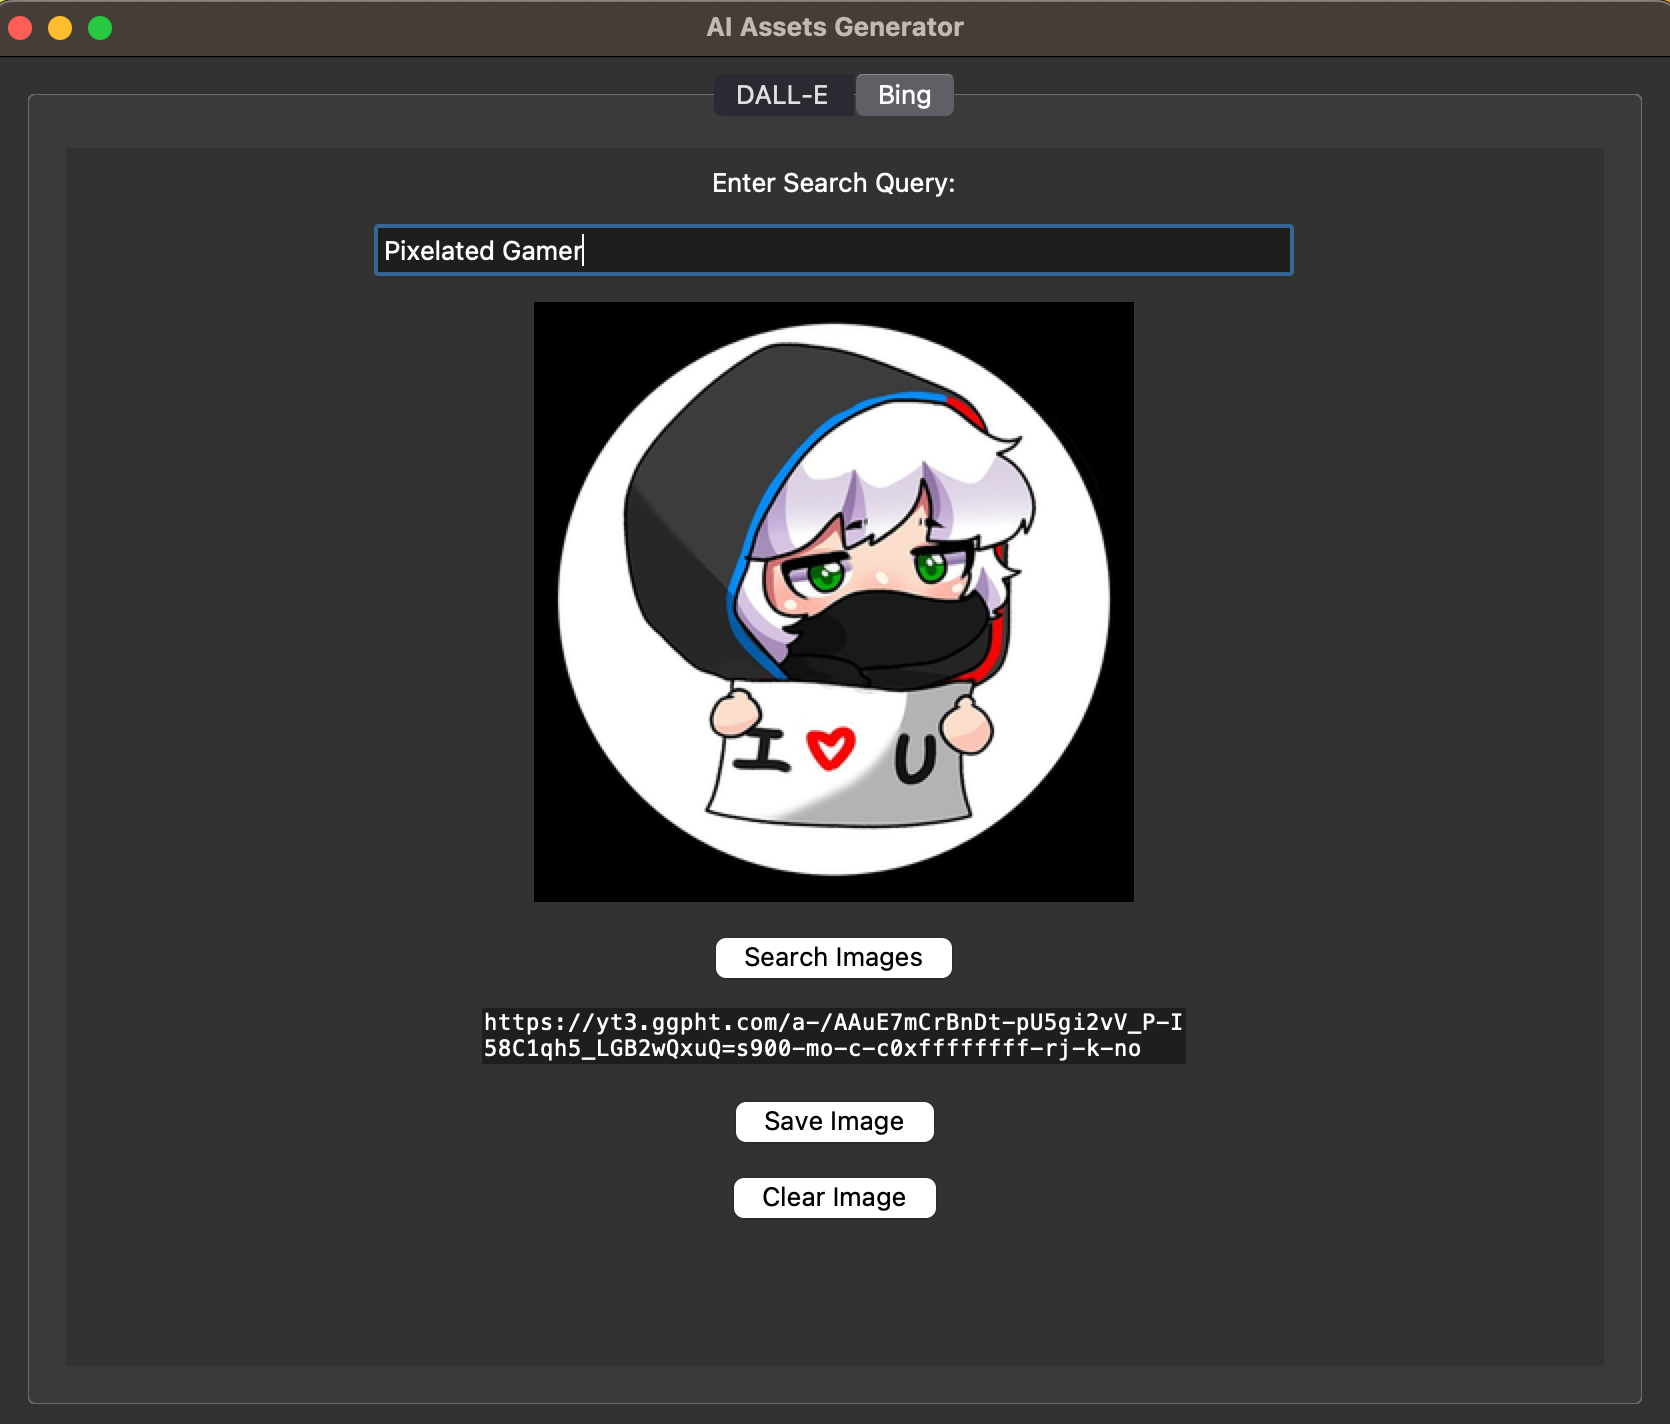
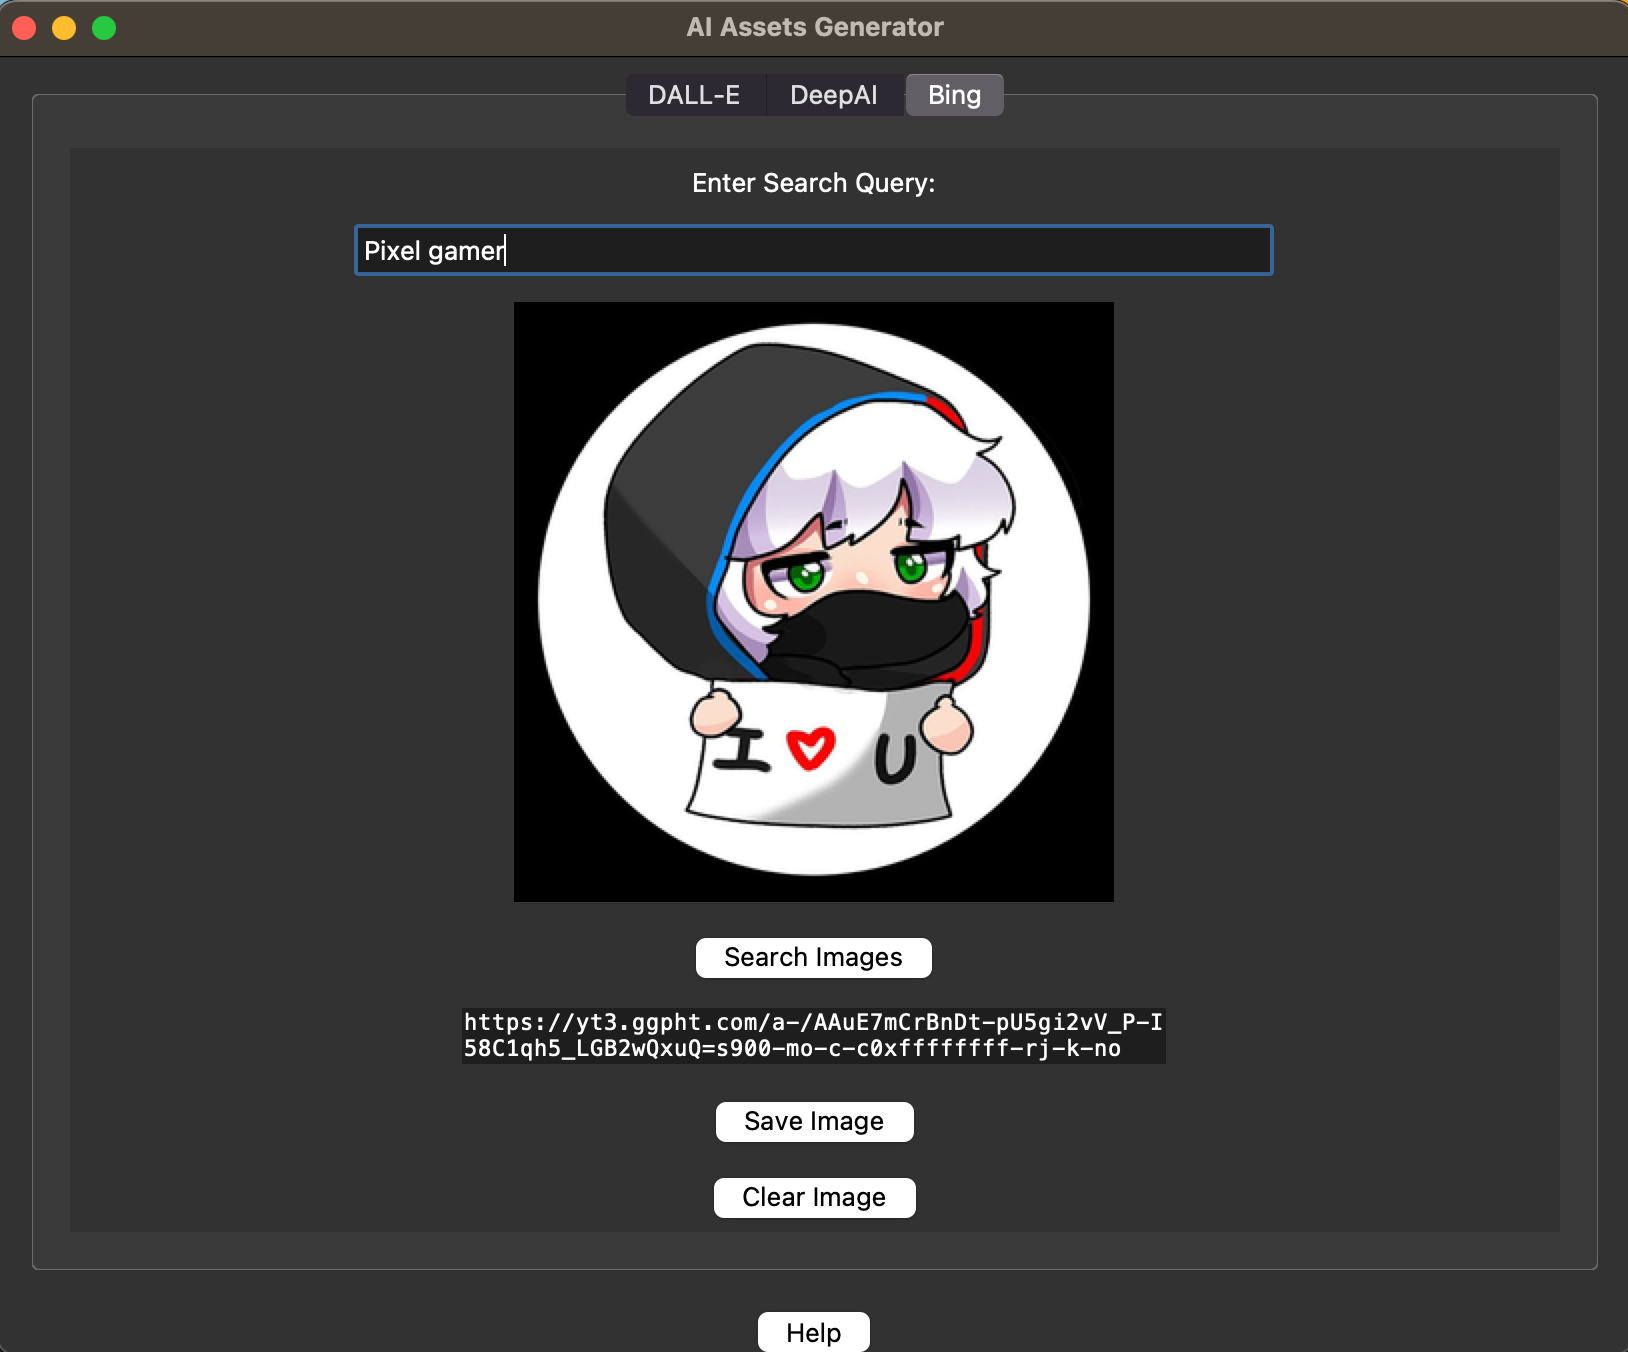
Added DeepAI section

diff --git a/AIAssetsGenerator.py b/AIAssetsGenerator.py
@@ -3,6 +3,7 @@ from tkinter import ttk
 import tkinter.filedialog as filedialog
 from Dalle import generate_openai_image, save_openai_image, clear_openai_image
 from BingSearch import search_bing_images, save_bing_image, clear_bing_images
+from DeepAI import generate_deepai_image, save_deepai_image, clear_deepai_image
 
 # Create the main window
 window = tk.Tk()
@@ -66,16 +67,74 @@ def create_bing_section(bing_frame):
     bing_clear_button = tk.Button(bing_left_frame, text="Clear Image", command=lambda: clear_bing_images(bing_query_text, bing_picture_box, bing_url_text))
     bing_clear_button.pack(side=tk.TOP, padx=5, pady=5)
 
-# Main method for the application.
+def create_deepai_section(deepai_frame):
+    deepai_left_frame = tk.Frame(deepai_frame)
+    deepai_left_frame.pack(side=tk.LEFT, fill=tk.BOTH, expand=True)
+
+    # Create a label and text box for the DeepAI Image prompt
+    deepai_prompt_label = tk.Label(deepai_left_frame, text="Enter Prompt:")
+    deepai_prompt_label.pack(side=tk.TOP, padx=5, pady=5)
+    deepai_prompt_text = tk.Entry(deepai_left_frame, width=50)
+    deepai_prompt_text.pack(side=tk.TOP, padx=5, pady=5)
+
+    # Create a picture box for the DeepAI Image
+    deepai_picture_box = tk.Label(deepai_left_frame)
+    deepai_picture_box.pack(side=tk.TOP, padx=5, pady=5)
+
+    # Create a text box for the DeepAI Image URL
+    deepai_url_text = tk.Text(deepai_left_frame, height=2, width=50)
+    deepai_url_text.pack(side=tk.TOP, padx=5, pady=5)
+
+    # Create a button to generate the DeepAI Image
+    deepai_generate_button = tk.Button(deepai_left_frame, text="Generate Image", command=lambda: generate_deepai_image(deepai_prompt_text.get(), deepai_picture_box, deepai_url_text))
+    deepai_generate_button.pack(side=tk.TOP, padx=5, pady=5)
+
+    deepai_save_button = tk.Button(deepai_left_frame, text="Save Image", command=lambda: save_deepai_image(deepai_url_text.get("1.0", "end").strip(), deepai_url_text))
+    deepai_save_button.pack(side=tk.TOP, padx=5, pady=5)
+
+    deepai_clear_button = tk.Button(deepai_left_frame, text="Clear Image", command=lambda: clear_deepai_image(deepai_prompt_text, deepai_picture_box, deepai_url_text))
+    deepai_clear_button.pack(side=tk.TOP, padx=5, pady=5)
+
+# This is method to show the help window.
+def show_help():
+    help_window = tk.Toplevel(window)
+    help_window.title("Help")
+    help_window.geometry("400x300")
+    
+    help_text = tk.Text(help_window, font=("Helvetica", 12))
+    help_text.pack()
+    
+    help_text.pack(side=tk.LEFT, fill=tk.BOTH, expand=True, padx=10, pady=10)
+    help_text.insert(tk.END, "Welcome to the AI Assets Generator!\n\n")
+    help_text.insert(tk.END, "This application allows you to generate images using the OpenAI DALL-E API, DeepAI, and Bing Search.\n\n")
+    help_text.insert(tk.END, "OpenAI DALL-E:\n")
+    help_text.insert(tk.END, "Enter a prompt for the image you want to generate and click 'Generate Image'. The generated image will appear in the picture box.\n\n")
+    help_text.insert(tk.END, "DeepAI:\n")
+    help_text.insert(tk.END, "Enter the desired parameters and click 'Generate Image'. The generated image will appear in the picture box.\n\n")
+    help_text.insert(tk.END, "Bing Search:\n")
+    help_text.insert(tk.END, "Enter a search query and click 'Search Images'. The search results will appear in the picture box. Click on a picture to select it, and click 'Save Image' to save the selected image.\n\n")
+
+    help_text.config(state=tk.DISABLED)
+
+    ok_button = tk.Button(help_window, text="OK", command=help_window.destroy)
+    ok_button.pack(pady=10)
+
 if __name__ == "__main__":
     
     openai_tab = ttk.Frame(tab_control)
     tab_control.add(openai_tab, text="DALL-E")
     create_openai_section(openai_tab)
 
+    deepai_tab = ttk.Frame(tab_control)
+    tab_control.add(deepai_tab, text="DeepAI")
+    create_deepai_section(deepai_tab)
+    
     bing_tab = ttk.Frame(tab_control)
     tab_control.add(bing_tab, text="Bing")
     create_bing_section(bing_tab)
+
+    help_button = tk.Button(window, text="Help", command=show_help)
+    help_button.pack()
 
     # Start the main event loop
     window.mainloop()

diff --git a/DeepAI.py b/DeepAI.py
@@ -1,0 +1,85 @@
+import os
+import sys
+from tkinter import filedialog, messagebox
+import traceback
+import requests
+import json
+import tkinter as tk
+
+# Set up API credentials for OpenAI
+deepmind_api_key = os.getenv("DEEPAI_API_KEY")
+
+# Check a string for emptyness and give error message if it is empty.
+def check_valid_prompt(prompt: str):
+    if not prompt:
+        messagebox.showerror(title="ERROR", message="Please enter a prompt to generate an image from.")
+        return False
+    else:
+        return True
+
+def generate_deepai_image(prompt, save_url, picture_box):
+    try:
+        # Check for empty prompt.
+        if not check_valid_prompt(prompt):
+            return
+        
+        url = "https://api.deepai.org/api/text2img"
+        data = {
+            'text': prompt,
+        }
+
+        headers = {'api-key': deepmind_api_key}
+        response = requests.post(url, data=data, headers=headers)
+
+        if response.status_code == 200:
+            result = json.loads(response.text)
+            image_url = result['output_url']
+            image_response = requests.get(image_url)
+            if image_response.status_code == 200:
+                with open(save_url, 'wb') as f:
+                    f.write(image_response.content)
+                picture_box.image = None
+                picture_box.configure(image=None)
+                picture_box.image = tk.PhotoImage(file=save_url)
+                picture_box.configure(image=picture_box.image)
+            else:
+                raise Exception(f"Error occurred in generate_deepai_image() Failed to fetch image URL")
+        else:
+            raise Exception(f"Error occurred in generate_deepai_image() at line API request failed")
+    except Exception as e:
+        tb = traceback.extract_tb(e.__traceback__)
+        file, line, func, text = tb[-1]
+        messagebox.showerror("ERROR",f"Exception in File {file} and method {func}() at line {line}: {e}")
+
+#Create a button to clear the OpenAI Image section
+def clear_deepai_image(openai_prompt_text, openai_picture_box, openai_url_text):
+    openai_prompt_text.delete(0, tk.END)
+    openai_picture_box.image = None
+    openai_picture_box.configure(image=tk.PhotoImage())
+    openai_url_text.delete('1.0', tk.END)
+
+
+def save_deepai_image(image_url, save_url_text):
+    try:
+        if image_url:
+            file_types = [
+                ('PNG Image', '*.png'),
+                ('JPG Image', '*.jpg'),
+                ('JPEG Image', '*.jpeg')
+            ]
+            file_name = filedialog.asksaveasfilename(defaultextension=".png", filetypes=file_types)
+            if file_name:
+                save_url_text.delete('1.0', tk.END)
+                save_url_text.insert('1.0', file_name)
+                response = requests.get(image_url)
+                if response.status_code == 200:
+                    with open(file_name, 'wb') as f:
+                        f.write(response.content)
+                else:
+                    raise Exception(f"Error occurred in save_deepai_image() at line {sys.exc_info()[2].tb_lineno}: Failed to fetch image URL")
+        else:
+            raise Exception(f"Error occurred in save_deepai_image() at line {sys.exc_info()[2].tb_lineno}: No image URL to save")
+    except Exception as e:
+        tb = traceback.extract_tb(e.__traceback__)
+        file, line, func, text = tb[-1]
+        messagebox.showerror("ERROR",f"Exception in File {file} and method {func}() at line {line}: {e}")

diff --git a/BingSearch.py b/BingSearch.py
@@ -1,4 +1,4 @@
-from tkinter import filedialog
+from tkinter import filedialog, messagebox
 import tkinter as tk
 import traceback
 import urllib.request
@@ -13,8 +13,19 @@ ssl_context = ssl.create_default_context()
 ssl_context.check_hostname = False
 ssl_context.verify_mode = ssl.CERT_NONE
 
+# Check a string for emptyness and give error message if it is empty.
+def check_valid_query(prompt: str):
+    if not prompt:
+        messagebox.showerror("ERROR", "Please enter a query to search an image from.")
+        return False
+    else:
+        return True
+
 def search_bing_images(query, bing_picture_box, bing_url_text):
     try:
+        # Check for empty prompt.
+        if not check_valid_query(query):
+            return
         # Download and display the search results
         image_urls = bing_image_urls(query, limit=1, adult_filter_off=True)
         image_url = image_urls[0]
@@ -35,7 +46,7 @@ def search_bing_images(query, bing_picture_box, bing_url_text):
     except Exception as e:
         tb = traceback.extract_tb(e.__traceback__)
         file, line, func, text = tb[-1]
-        print(f"Exception in File {file} and method {func}() at line {line}: {e}")
+        messagebox.showerror("ERROR",f"Exception in File {file} and method {func}() at line {line}: {e}")
 
 def save_bing_image(url):
     try:
@@ -53,7 +64,7 @@ def save_bing_image(url):
     except Exception as e:
         tb = traceback.extract_tb(e.__traceback__)
         file, line, func, text = tb[-1]
-        print(f"Exception in File {file} and method {func}() at line {line}: {e}")
+        messagebox.showerror("ERROR",f"Exception in File {file} and method {func}() at line {line}: {e}")
         
 def clear_bing_images(bing_query_text, bing_picture_box, bing_url_text):
     bing_query_text.delete(0, tk.END)

diff --git a/Dalle.py b/Dalle.py
@@ -21,9 +21,20 @@ ssl_context = ssl.create_default_context()
 ssl_context.check_hostname = False
 ssl_context.verify_mode = ssl.CERT_NONE
 
+# Check a string for emptyness and give error message if it is empty.
+def check_valid_prompt(prompt: str):
+    if not prompt:
+        messagebox.showerror(title="ERROR", message="Please enter a prompt to generate an image from.")
+        return False
+    else:
+        return True
 
 def generate_openai_image(prompt, openai_picture_box, openai_url_text):
     try:
+        # Check for empty prompt.
+        if not check_valid_prompt(prompt):
+            return
+        
         # Generate the image from OpenAI API
         response = openai.Image.create(
             prompt=prompt,
@@ -48,7 +59,7 @@ def generate_openai_image(prompt, openai_picture_box, openai_url_text):
     except Exception as e:
         tb = traceback.extract_tb(e.__traceback__)
         filename, line, func, text = tb[-1]
-        print(f"Exception in {func}() at line {line}: {e}")
+        messagebox.showerror("ERROR",f"Exception in {func}() at line {line}: {e}")
 
 def save_openai_image(url, openai_url_text):
     try:
@@ -72,7 +83,7 @@ def save_openai_image(url, openai_url_text):
     except Exception as e:
         tb = traceback.extract_tb(e.__traceback__)
         file, line, func, text = tb[-1]
-        print(f"Exception in File {file} and method {func}() at line {line}: {e}")
+        messagebox.showerror("ERROR",f"Exception in File {file} and method {func}() at line {line}: {e}")
             
 #Create a button to clear the OpenAI Image section
 def clear_openai_image(openai_prompt_text, openai_picture_box, openai_url_text):

diff --git a/README.md b/README.md
@@ -18,14 +18,15 @@ AI Assets Generator is a Python-based tool for generating artificial intelligenc
 
 ## Features
 
-* Generate OpenAI images with the provided prompt text
-* Save OpenAI-generated images
-* Clear OpenAI-generated images
+* Generate AI images with the provided prompt text
+* Save and Clear generated images
 * Search for images on Bing using the provided search query
+* Generate AI-generated images using **DeepAI's** text-to-image API
+* Generate AI-generated images using **DALL-E's** text-to-image API
 * Modular code structure for easy maintenance and expansion
 * The OpenAI section of the tool allows users to generate images using the DALL-E API. This API uses a neural network to generate images based on user prompts. Users can enter a text prompt and the neural network will generate an image based on that prompt.
 * The tool also includes a Bing Image Search section, which allows users to search for images on the internet using the Bing Search API. Users can enter a search query and the tool will display a list of images related to that query.
-* The Bing Image Search section also includes the ability to save images to the user's local filesystem. This can be useful for collecting a set of images for use in a project.
+* The **DeepAI's** Image generate section also includes the ability to save images to the user's local filesystem. This can be useful for collecting a set of images for use in a project.
 * The tool includes error handling and validation for user inputs, so if the user enters an invalid prompt or search query, they will be notified with a message.
 * The code is modular and organized into different files for each section of the tool. This makes it easy to modify or extend the tool in the future.
 
@@ -48,6 +49,14 @@ For Windows, use the following command instead:
 
 ```set OPENAI_API_KEY=<your API key>```
 
+4. To generate DeepAI images, you need to have an DeepAI API key. You can set the API key as an environment variable using the following command:
+
+```export DEEPAI_API_KEY=<your API key>```
+
+For Windows, use the following command instead:
+
+```set DEEPAI_API_KEY=<your API key>```
+
 5. To run the program, execute the following command:
 
 ```python AIAssetsGenerator.py```
@@ -56,6 +65,8 @@ For Windows, use the following command instead:
 Run the ImageAIGenerator.py file to start the application.
 
 The OpenAI tab allows you to generate AI-generated images using DALL-E. Enter your prompt text in the "Enter Prompt" textbox and click on "Generate Image" to see the generated image.</br>
+
+The OpenAI tab allows you to generate AI-generated images using DeepAI. Enter your prompt text in the "Enter Prompt" textbox and click on "Generate Image" to see the generated image.</br>
 
 You can save the image using the "Save Image" button, and clear the prompt and image using the "Clear Image" button.
 The Bing tab allows you to search for images using the Bing image search API.</br>
